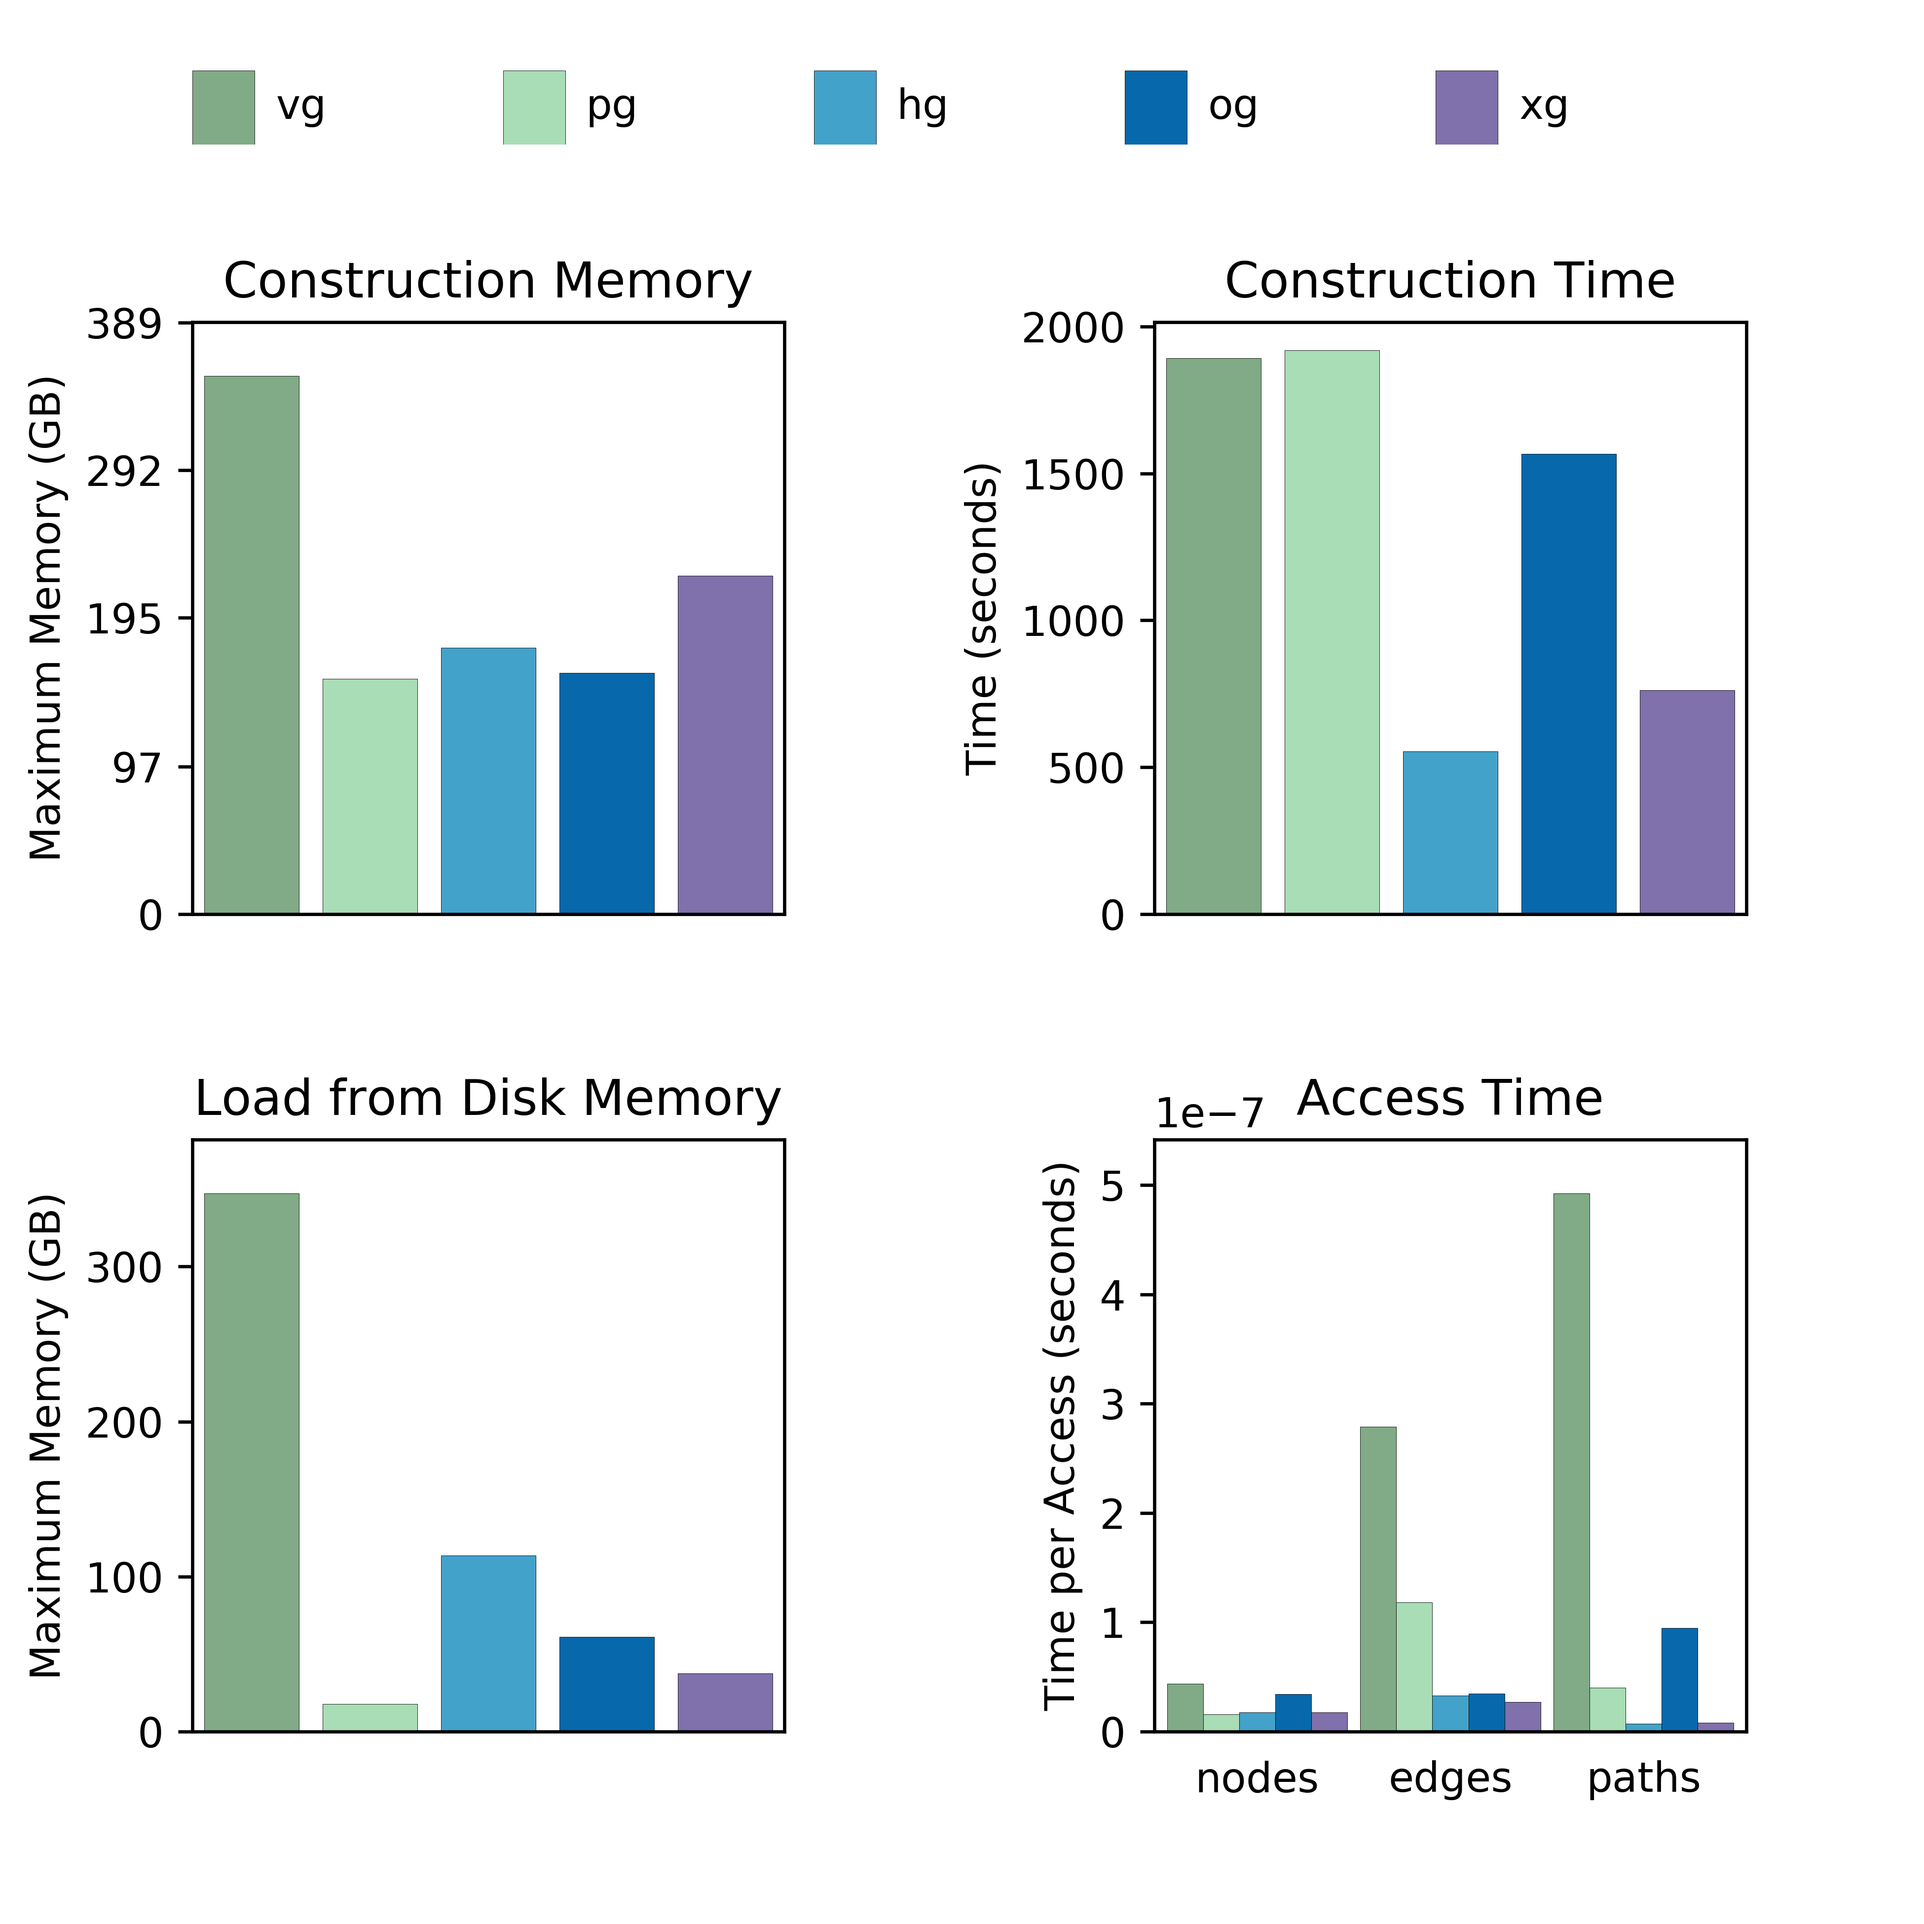
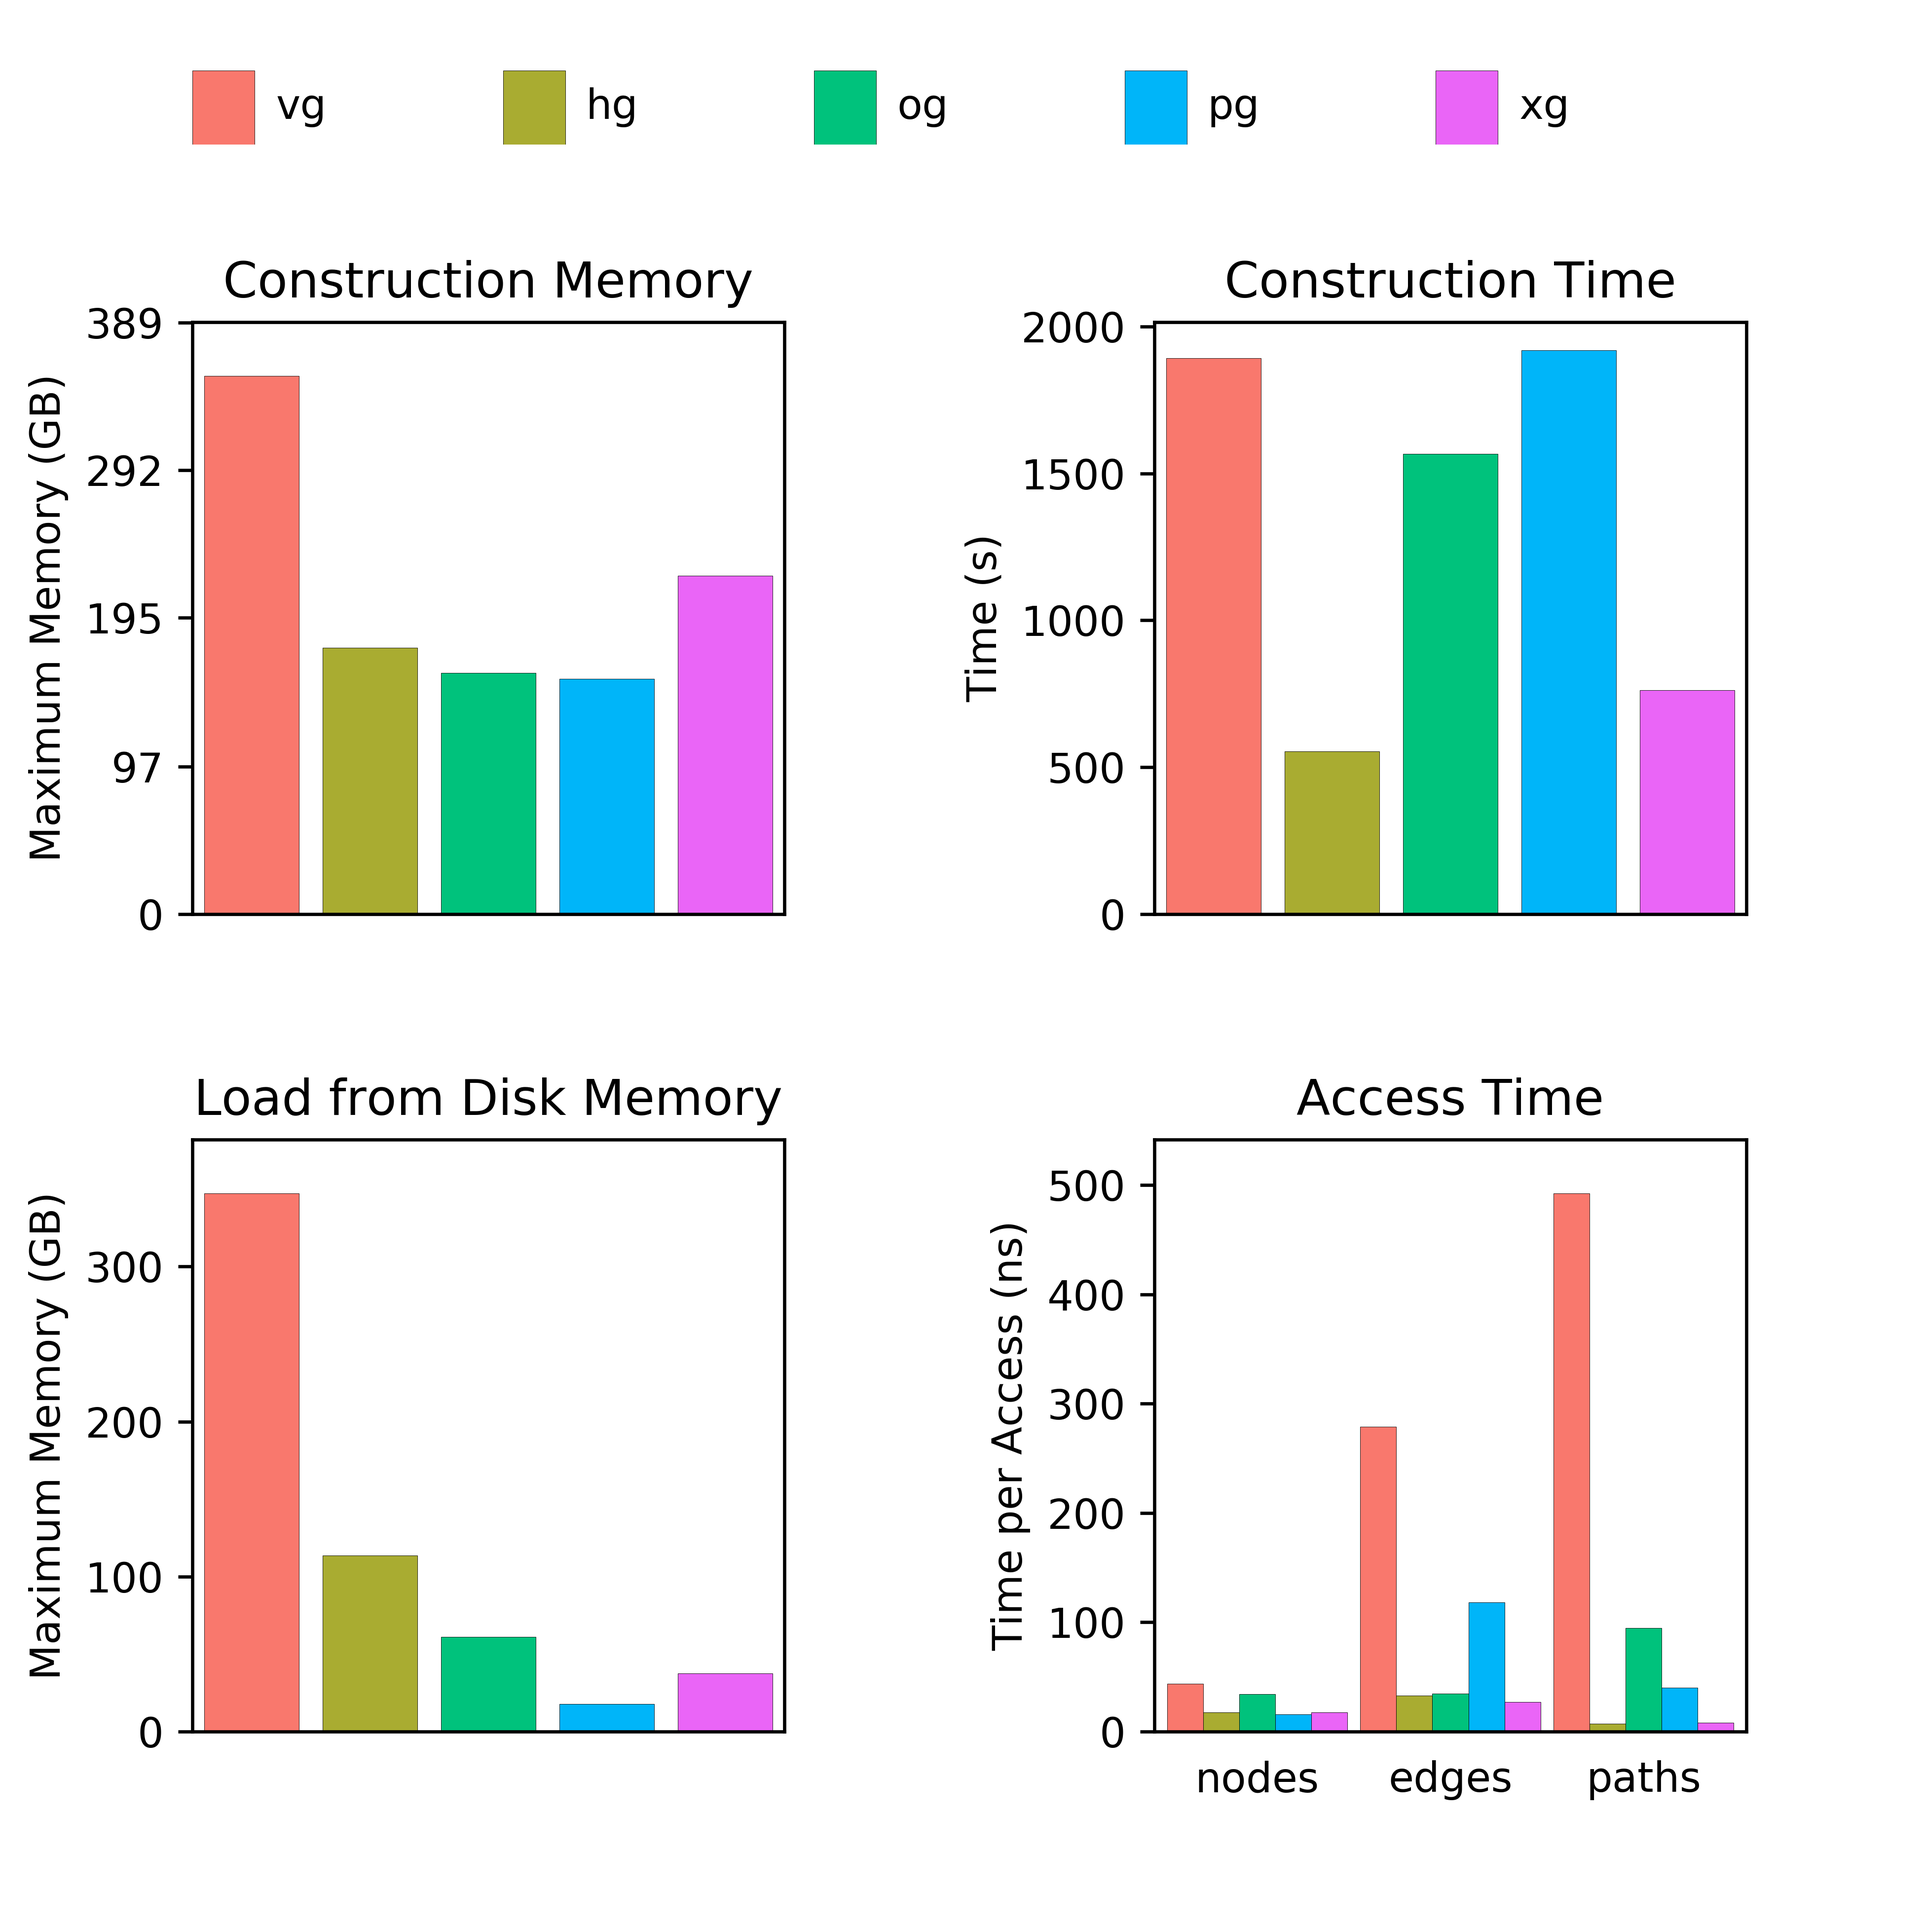
new figure colors and minor style edits

diff --git a/main.tex b/main.tex
@@ -34,14 +34,14 @@ Through experiments with a diverse collection of pangenome graphs, we demonstrat
 
 With falling sequencing costs, the genomics community has sequenced increasingly many individuals within certain species.
 For example, hundreds of thousands of deeply sequenced human genomes are now available.
-The novel challenges of analyzing data sets of this scale have led to the development of \vocab{computational pangenomics}, which focuses on the analysis of populations of genomes rather than individuals \cite{computational2016computational}.
+The novel challenges of analyzing data sets of this scale have led to the development of \vocab{computational pangenomics}, which focuses on analyzing populations of genomes rather than individuals \cite{computational2016computational}.
 
 Much of the research in computational pangenomics has coalesced around graph-based approaches for representing populations of genomes \cite{Paten_2017}.
 Unlike conventional string-based representations, graph data structures provide a coherent modeling language to represent different types of genomic variation like substitutions, insertions, deletions, and more complex genomic events.
 They also compactly represent many-way relationships between related genomes, such as whole genome alignments \cite{kehr2014genome}.
 
 Graph-based data structures also present new computational challenges.
-In addition to sequence, graphs must represent topology.
+In addition to sequence, genome graphs must represent topology.
 Given the size of many genomes of interest, this can be quite demanding on computer memory.
 Further, there is significant impetus to make the graph data structures computationally efficient, since they are frequently the core data structure in pangenomics applications.
 
@@ -56,7 +56,7 @@ Loading the 1000 Genomes Project's variant set into the \textsc{vg} toolkit requ
 
 Although \textsc{vg} provides a memory-efficient succinct representation of the graph (\textsc{xg}) that is used during read mapping and variant calling, it is static and does not allow for dynamic updates to the graph.
 As a result, graph modifying steps in pangenomic analysis pipelines must break large graphs into smaller pieces, often connected components that correspond to chromosomes.
-This is unfortunately not tenable for all graphs.
+Unfortunately, this strategy is not tenable for all graphs.
 For instance, many whole genome alignment and assembly graphs consist of a single giant component that cannot be partitioned easily.
 
 To overcome this limitation, we have developed three new graph genome data structures that are both succinct, in requiring working memory in the order of the information content of the graph, \emph{and} dynamic, in that they allow efficient updates and edits to the graph.
@@ -89,7 +89,7 @@ In bidirected sequence graphs, a node's sides correspond to the 5' and 3' ends o
 
 Paths through a bidirected graph must leave a node out of the opposite side that they enter it.
 We interpret paths that traverse a node from the 3' side to the 5' as using the node's reverse complement strand, which provides a natural means to encode DNA strandedness.
-Specific paths correspond to sequences of interest, such as reference genomes or annotations (subsequences) of them.
+Specific paths correspond to sequences of interest, such as reference genomes or annotations of the reference.
 Because paths like these are so frequently important in practice, our formalism also includes paths as a first class object, embedded in the graph.
 
 \subsection{The handle graph interface}
@@ -113,7 +113,7 @@ The \textsc{HandleGraph} model focuses on five fundamental entities in the bidir
 The \texttt{libhandlegraph} interface requires sequence graph implementations to be able to provide or consume these handles for basic queries.
 %The handles are then passed back to the API to refer to these entities when performing operations and making queries.
 For instance, we might obtain a handle from an implementation by querying a node's ID and providing an orientation, while another function provided in the implementation would map the handle back to a given node ID.
-Alternatively, we can obtain reference to a path by its name (e.g. ``chr22''), and then iterate over the series of step handles in the path to follow its course through the graph.
+Alternatively, we can obtain reference to a path by its name (e.g. ``chr22''), and then iterate over the series of steps in the path to follow its course through the graph.
 Or, starting from a given handle, we can follow its outgoing edges along the same strand and direction to explore the topology of the graph.
 
 %The actual contents of a handle are unspecified, which gives significant flexibility to the implementation.
@@ -134,7 +134,7 @@ Further, the interface can be made memory-safe by eliminating raw pointers and o
 The \texttt{libbdsg} library consists of four concrete implementations of the handle graph interface.
 Each implementation represents a different tradeoff in terms of speed, memory use, and capabilities.
 All of the implementations except XG are dynamic. 
-\todo[inline]{Are we going to roll XG into libbdsg? That's what this text sounds like. However, the introduction sets it up as if XG is one of the existing states-of-the-art we're comparing against, in which case it might not make sense to describe the implementation in the subsection below.}
+%\todo[inline]{Are we going to roll XG into libbdsg? That's what this text sounds like. However, the introduction sets it up as if XG is one of the existing states-of-the-art we're comparing against, in which case it might not make sense to describe the implementation in the subsection below.}
 
 \subsubsection{HashGraph}
 
@@ -175,9 +175,9 @@ Unlike the others, this implementation is static.
 This permits a more powerful set of efficient queries from the graph, especially from paths.
 The encoding is designed to balance speed and low-memory usage.
 The topology of the graph is encoded in a single vector of bit-compressed integers, which promotes cache-efficiency.
-Rank and select operations on compressed bit-vectors are used to provide random access over the variable-width records.
+Rank and select operations on succinct bit-vectors are used to provide random access over the variable-width records, which each encode a node's sequence, ID, and edges.
 Embedded paths are encoded in variable-length integer vectors with Elias gamma encoding.
-Rank and select operations from bit vectors also provide queries by base-pair position along paths.
+Rank and select operations from succinct bit vectors also provide queries by base-pair position along paths.
 
 \section{Evaluation}
 
